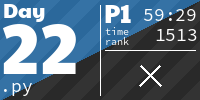
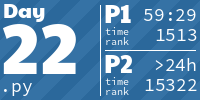
Update tiles

diff --git a/README.md b/README.md
@@ -66,7 +66,7 @@
   <img src="Media/2023/21.png" width="161px">
 </a>
 <h1 align="center">
-  2022 - 48 ⭐
+  2022 - 50 ⭐
 </h1>
 <a href="2022/python/01_Calorie_Counting.py">
   <img src="Media/2022/01.png" width="161px">
